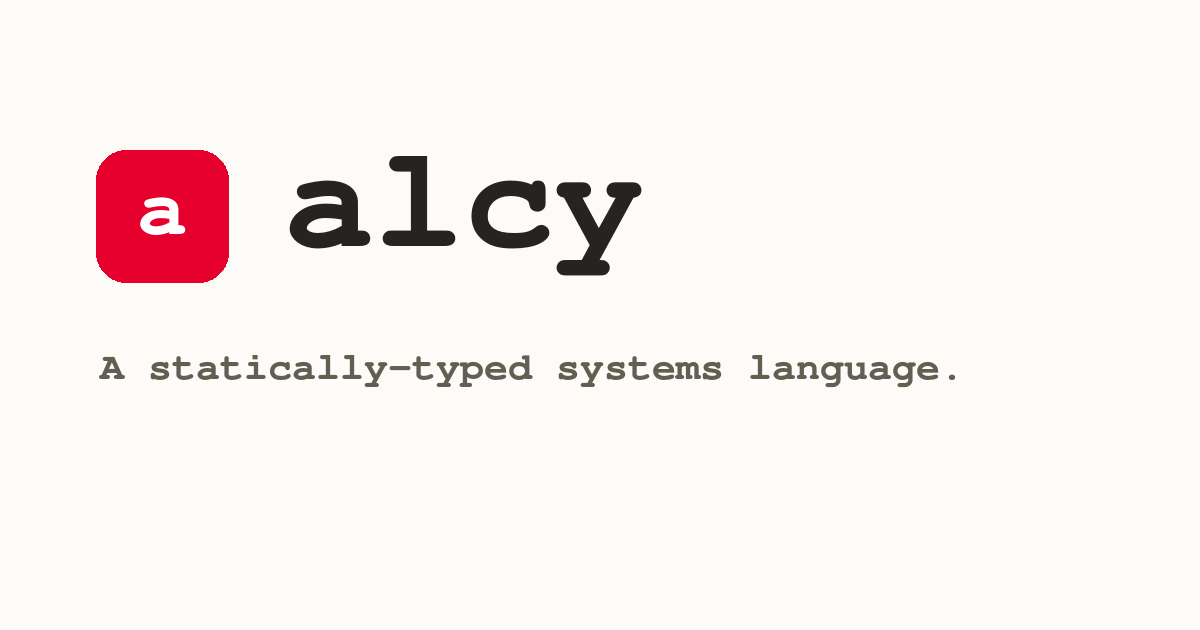
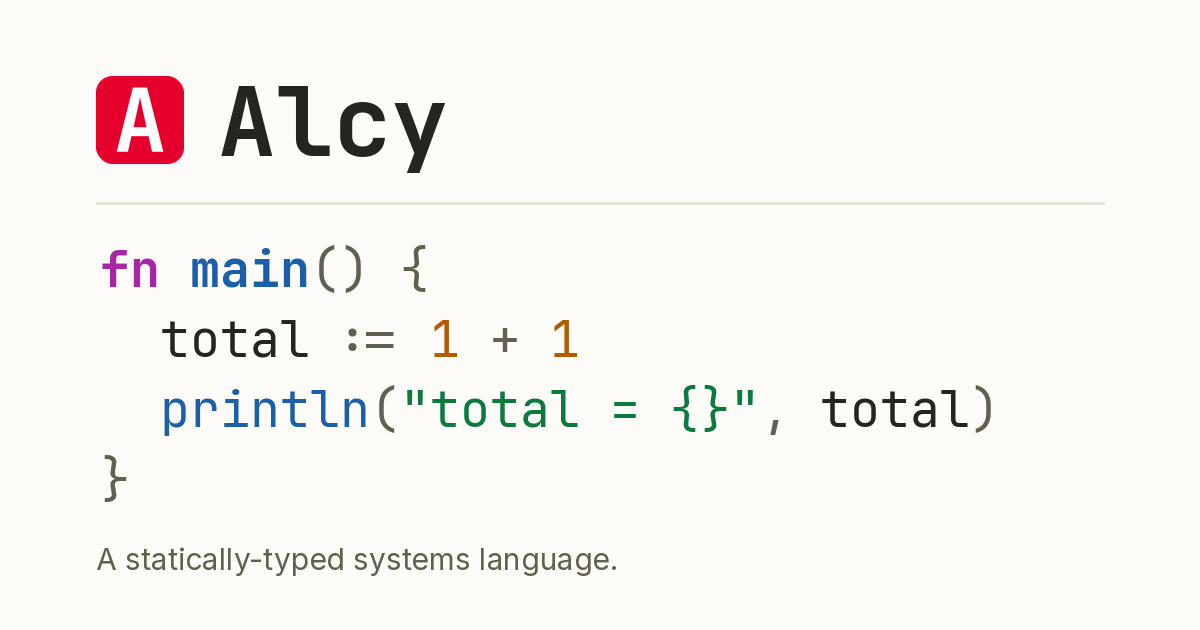
refactor(site): redraw the social card with a cleaner mono
The card now leads with a compilable program and uses JetBrains Mono
for the wordmark and code.
Use an Alcy snippet with := and the site's syntax colours, set the
wordmark in title case.

diff --git a/tools/og_card.py b/tools/og_card.py
@@ -3,49 +3,104 @@
 # Copyright 2026 The Alcy Project Authors
 # SPDX-License-Identifier: Apache-2.0 WITH LLVM-exception
 
-"""Draws the site's social card once: `uv run --with pillow python3 tools/og_card.py`.
-The committed site/og.png is the artifact; nothing at build time depends
-on Pillow."""
+"""Draws the site's social card once: `uv run --with pillow --with cairosvg
+python3 tools/og_card.py`. The committed site/og.png is the artifact;
+nothing at build time depends on Pillow. The mark is the site's favicon,
+so the two cannot drift. JetBrains Mono Regular/Bold and Inter Regular
+need to be installed under ~/.local/share/fonts."""
 
+from io import BytesIO
+from pathlib import Path
+
+import cairosvg
 from PIL import Image, ImageDraw, ImageFont
 
 W, H = 1200, 630
 PAPER = "#fcfbf7"
 INK = "#262420"
 SOFT = "#635e52"
-CRIMSON = "#e6002d"
-MONO = "/usr/share/fonts/gsfonts/NimbusMonoPS-Bold.otf"
+RULE = "#e5e2da"
+KEYWORD = "#a626a4"
+FUNCTION = "#1a5fa8"
+NUMBER = "#b25b00"
+STRING = "#0a7a3d"
+MONO = Path.home() / ".local/share/fonts/JetBrainsMono-Regular.ttf"
+MONO_BOLD = Path.home() / ".local/share/fonts/JetBrainsMono-Bold.ttf"
+SANS = Path.home() / ".local/share/fonts/Inter-Regular.ttf"
 
 image = Image.new("RGB", (W, H), PAPER)
 draw = ImageDraw.Draw(image)
 
-# The monogram tile, the favicon at card scale.
-size = 132
-x, y = 96, 150
-draw.rounded_rectangle((x, y, x + size, y + size), radius=30, fill=CRIMSON)
-mark = ImageFont.truetype(MONO, 84)
-bbox = draw.textbbox((0, 0), "a", font=mark)
-mark_w = bbox[2] - bbox[0]
-mark_h = bbox[3] - bbox[1]
-draw.text(
-    (x + (size - mark_w) / 2 - bbox[0], y + (size - mark_h) / 2 - bbox[1]),
-    "a",
-    font=mark,
-    fill="#ffffff",
+MARGIN = 96
+WORD_LIFT = 8
+
+
+def place(x, y, text, font, fill):
+    """Draws text at the same baseline as its neighbours; returns its width."""
+    draw.text((x, y), text, font=font, fill=fill)
+    return draw.textlength(text, font=font)
+
+
+def segments(x, y, parts):
+    """Draws one line made of separately coloured runs."""
+    for text, font, fill in parts:
+        x += place(x, y, text, font, fill)
+
+
+# The mark is the site's favicon, drawn at card scale from the SVG.
+tile = 88
+x, y = MARGIN, 76
+scale = 4
+favicon = Path(__file__).resolve().parent.parent / "site/favicon.svg"
+svg_bytes = cairosvg.svg2png(
+    url=str(favicon), output_width=tile * scale, output_height=tile * scale
 )
+mark = Image.open(BytesIO(svg_bytes)).convert("RGBA")
+mark = mark.resize((tile, tile), Image.Resampling.LANCZOS)
+image.paste(mark, (x, y), mark)
+word = ImageFont.truetype(MONO_BOLD, 96)
+a_bbox = word.getbbox("A")
+place(x + tile + 34, y + tile - a_bbox[3] - WORD_LIFT, "Alcy", word, INK)
 
-# The wordmark, set on the tile's centre line.
-word = ImageFont.truetype(MONO, 150)
-bbox = draw.textbbox((0, 0), "alcy", font=word)
-word_h = bbox[3] - bbox[1]
-word_x = x + size + 56
-word_y = y + size / 2 - word_h / 2 - bbox[1]
-draw.text((word_x, word_y), "alcy", font=word, fill=INK)
+draw.rectangle((MARGIN, 202, W - MARGIN, 204), fill=RULE)
 
-# The tagline.
-tag = ImageFont.truetype(MONO, 40)
-tagline = "A statically-typed systems language."
-draw.text((x + 4, y + size + 72), tagline, font=tag, fill=SOFT)
+# The code is the subject of the card. Its colours are the site's syntax
+# palette, so the card reads as a page the reader has already seen.
+code = ImageFont.truetype(MONO, 50)
+bold = ImageFont.truetype(MONO_BOLD, 50)
+code_x = MARGIN + 4
+segments(
+    code_x,
+    236,
+    [("fn ", bold, KEYWORD), ("main", bold, FUNCTION), ("() {", code, SOFT)],
+)
+segments(
+    code_x,
+    306,
+    [
+        ("  total", code, INK),
+        (" := ", code, SOFT),
+        ("1", code, NUMBER),
+        (" + ", code, SOFT),
+        ("1", code, NUMBER),
+    ],
+)
+segments(
+    code_x,
+    376,
+    [
+        ("  println", code, FUNCTION),
+        ("(", code, SOFT),
+        ('"total = {}"', code, STRING),
+        (", ", code, SOFT),
+        ("total", code, INK),
+        (")", code, SOFT),
+    ],
+)
+segments(code_x, 446, [("}", code, SOFT)])
+
+tag = ImageFont.truetype(SANS, 30)
+place(MARGIN, 540, "A statically-typed systems language.", tag, SOFT)
 
 image.save("site/og.png", optimize=True)
 print(f"site/og.png {image.size}")
